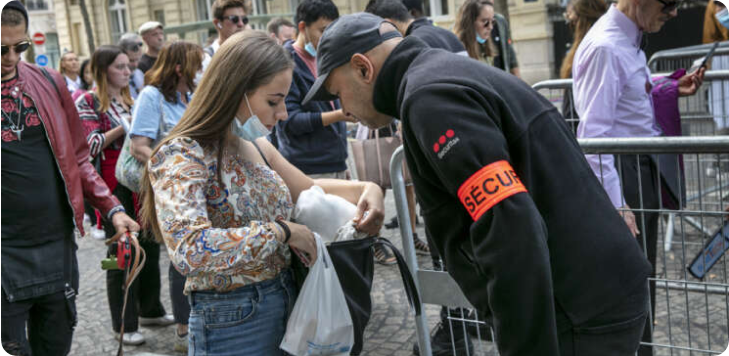
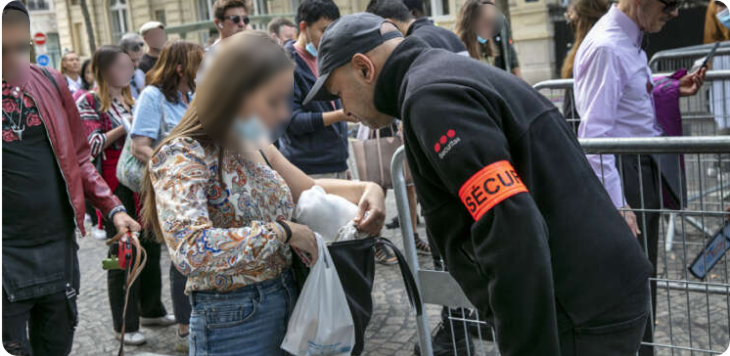
fix: images floutées+clients

diff --git a/src/components/Clients.vue b/src/components/Clients.vue
@@ -5,18 +5,13 @@
 <template>
     <section>
         <h2>
-            Ils nous font confiance. <br>
+            Ils nous ont fait confiance. <br>
             Pourquoi pas vous ?
         </h2>
         <div class="clients">
             <img class="client" alt="Auchan, Client d'odissey" src="../assets/clients/auchan.svg"/>
             <img class="client" alt="Paris Aéroport, Client d'Odissey" src="../assets/clients/roissy.svg"/>
-            <img class="client" alt="Paris Aéroport, Client d'Odissey" src="../assets/clients/roissy.svg"/>
-            <img class="client" alt="Paris Aéroport, Client d'Odissey" src="../assets/clients/roissy.svg"/>
-            <img class="client" alt="Paris Aéroport, Client d'Odissey" src="../assets/clients/roissy.svg"/>
-            <img class="client" alt="Paris Aéroport, Client d'Odissey" src="../assets/clients/roissy.svg"/>
-            <img class="client" alt="Paris Aéroport, Client d'Odissey" src="../assets/clients/roissy.svg"/>
-
+            <img class="client" alt="Carrefour Market, Client d'Odissey" src="../assets/clients/carrefour.svg"/>
         </div>
     </section>
 </template>
